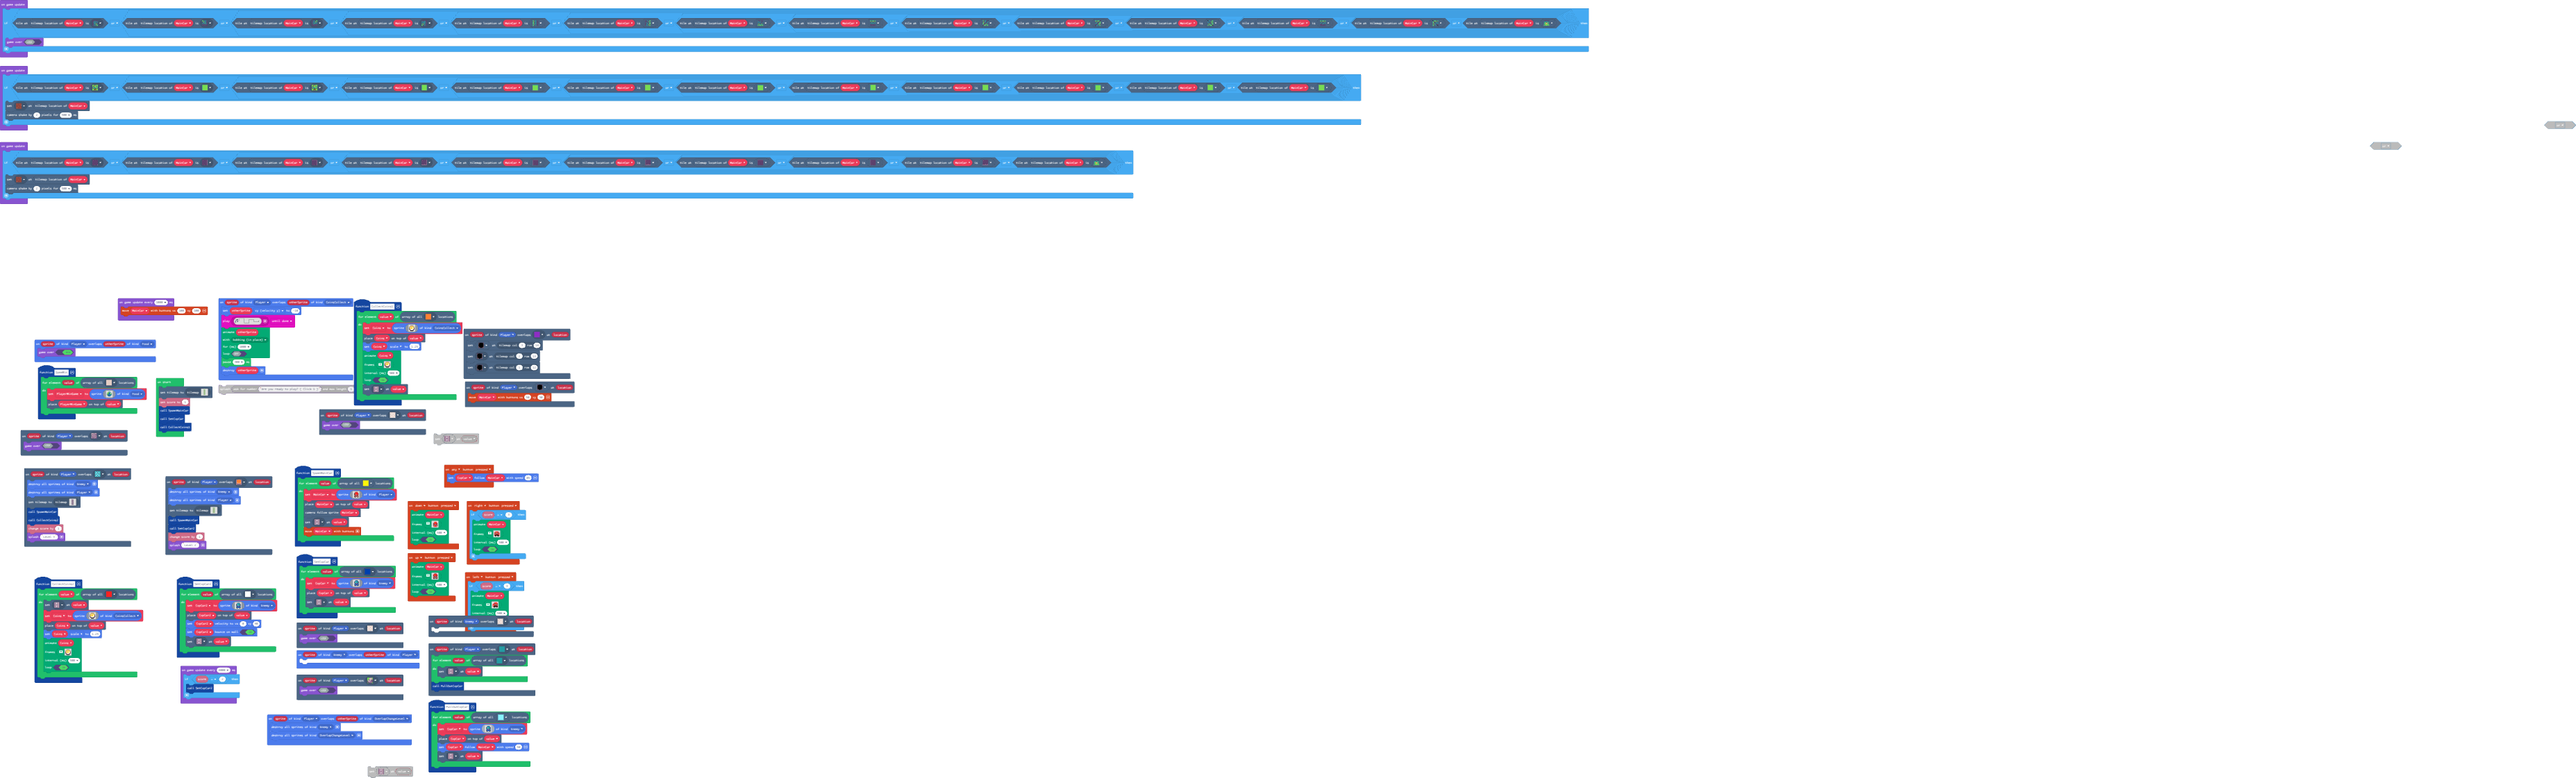
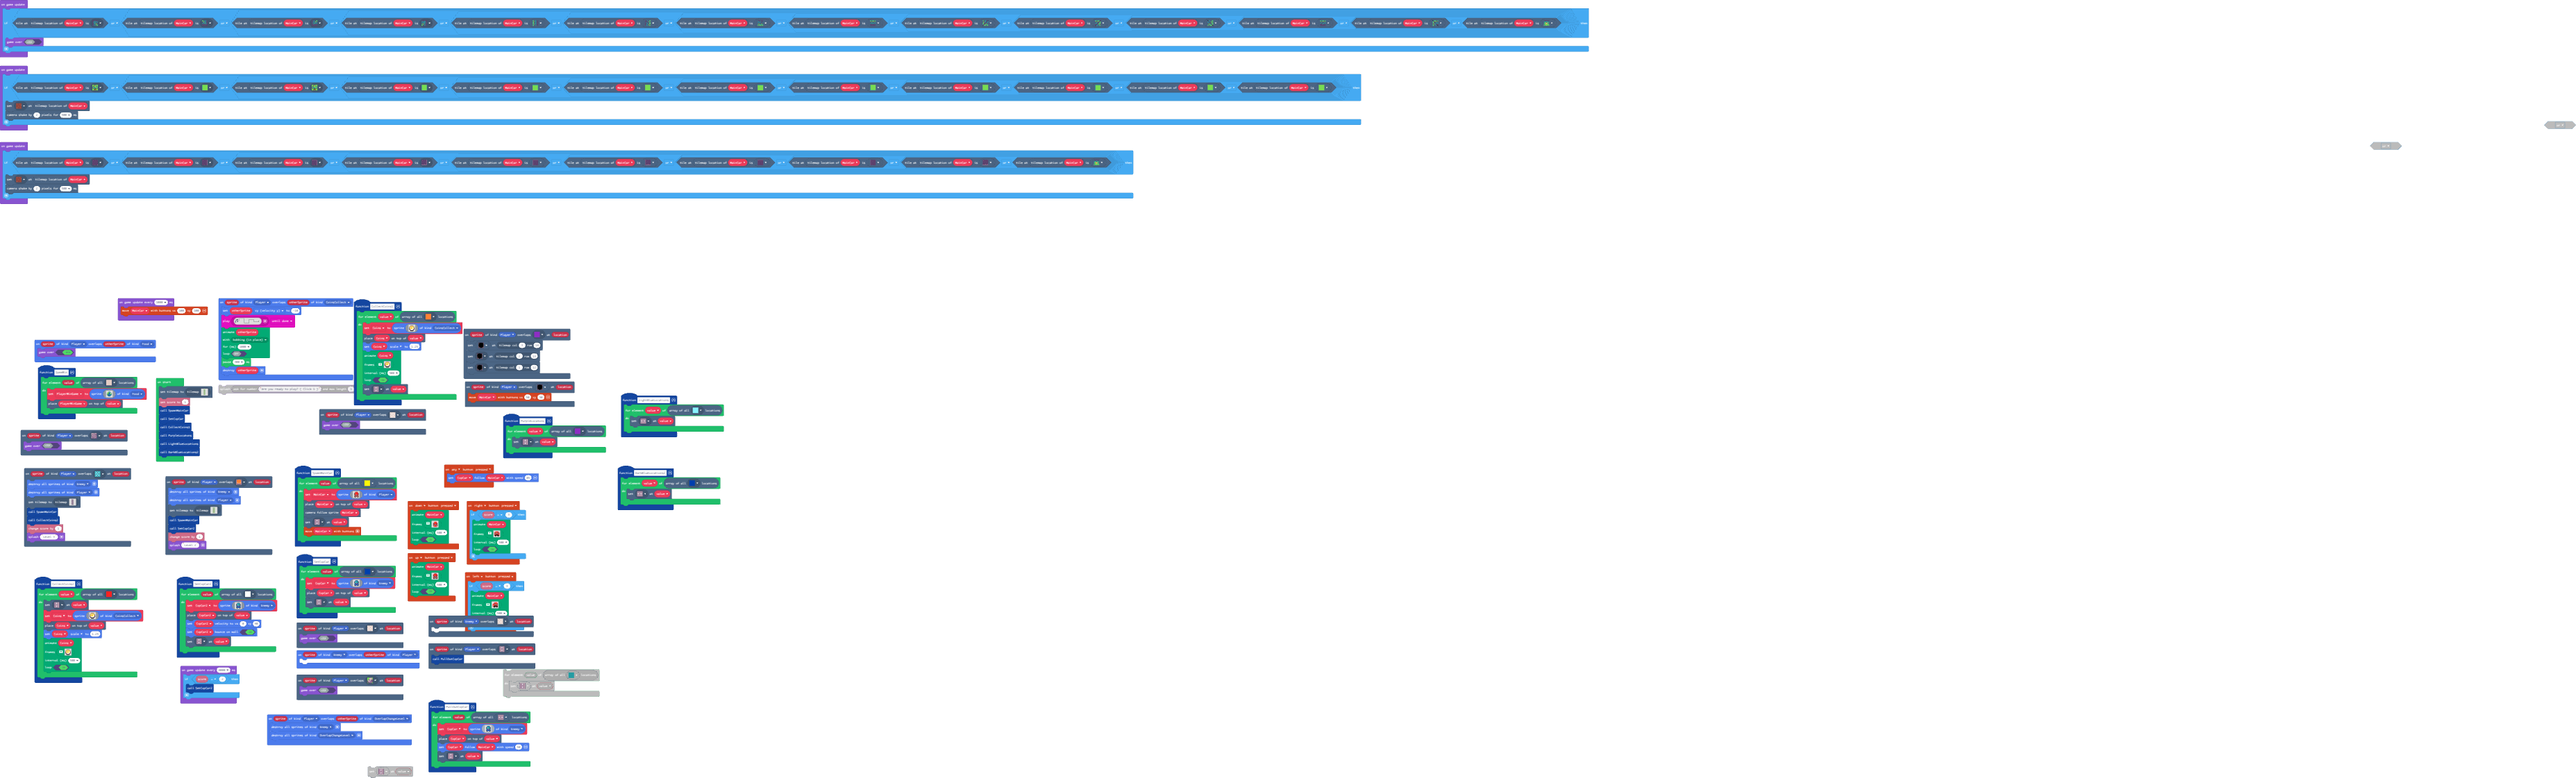
Update pxt.json, main.blocks, main.ts, tilemap.g.jres, tilemap.g.ts

diff --git a/tilemap.g.ts b/tilemap.g.ts
@@ -72,6 +72,10 @@ namespace myTiles {
     export const tile31 = image.ofBuffer(hex``);
     //% fixedInstance jres blockIdentity=images._tile
     export const tile32 = image.ofBuffer(hex``);
+    //% fixedInstance jres blockIdentity=images._tile
+    export const tile36 = image.ofBuffer(hex``);
+    //% fixedInstance jres blockIdentity=images._tile
+    export const tile37 = image.ofBuffer(hex``);
 
     helpers._registerFactory("tilemap", function(name: string) {
         switch(helpers.stringTrim(name)) {
@@ -215,7 +219,7 @@ namespace myTiles {
 ............
 `, [myTiles.transparency16,sprites.vehicle.roadVertical,sprites.vehicle.roadHorizontal,sprites.dungeon.darkGroundNorthWest1,sprites.dungeon.darkGroundEast,sprites.dungeon.darkGroundNorthEast0,sprites.dungeon.darkGroundSouthEast0,sprites.dungeon.darkGroundNorthWest0,sprites.dungeon.darkGroundSouthWest0,sprites.dungeon.darkGroundNorth,sprites.dungeon.darkGroundWest,sprites.dungeon.darkGroundSouth,sprites.dungeon.greenInnerNorthWest,sprites.dungeon.greenInnerSouthEast,sprites.dungeon.greenInnerSouthWest,sprites.dungeon.greenInnerNorthEast,sprites.dungeon.greenOuterWest0,sprites.dungeon.greenOuterEast1,sprites.dungeon.greenOuterSouth0,sprites.dungeon.greenOuterNorth0,sprites.dungeon.greenOuterSouth2,sprites.dungeon.greenOuterSouthEast,sprites.dungeon.greenOuterNorthEast,sprites.dungeon.greenOuterEast0,sprites.dungeon.greenOuterSouthWest,sprites.dungeon.greenOuterNorth1,sprites.dungeon.greenOuterNorthWest,sprites.dungeon.greenOuterWest1,myTiles.tile30,myTiles.tile27,sprites.dungeon.floorDarkDiamond,myTiles.tile32,myTiles.tile33], TileScale.Sixteen);
             case "level2":
[2 lines of base64/hex data omitted]
 ..........
 ..........
 ..........
@@ -254,7 +258,7 @@ namespace myTiles {
 ..........
 ..........
 ..........
-`, [myTiles.transparency16,sprites.vehicle.roadVertical,sprites.vehicle.roadHorizontal,sprites.skillmap.islandTile1,sprites.skillmap.islandTile4,sprites.skillmap.islandTile3,sprites.skillmap.islandTile5,myTiles.tile1,sprites.builtin.brick,myTiles.tile3,myTiles.tile4,myTiles.tile6,myTiles.tile8,myTiles.tile9,myTiles.tile13,myTiles.tile14,myTiles.tile15,myTiles.tile16,myTiles.tile17,myTiles.tile20,myTiles.tile22,myTiles.tile24,myTiles.tile25,myTiles.tile31,myTiles.tile33,myTiles.tile5], TileScale.Sixteen);
+`, [myTiles.transparency16,sprites.vehicle.roadVertical,sprites.vehicle.roadHorizontal,sprites.skillmap.islandTile1,sprites.skillmap.islandTile4,sprites.skillmap.islandTile3,sprites.skillmap.islandTile5,myTiles.tile1,sprites.builtin.brick,myTiles.tile3,myTiles.tile4,myTiles.tile6,myTiles.tile8,myTiles.tile9,myTiles.tile15,myTiles.tile16,myTiles.tile17,myTiles.tile20,myTiles.tile22,myTiles.tile24,myTiles.tile25,myTiles.tile31,myTiles.tile33,myTiles.tile5,myTiles.tile36,myTiles.tile37], TileScale.Sixteen);
         }
         return null;
     })
@@ -332,6 +336,10 @@ namespace myTiles {
             case "tile31":return tile31;
             case "myTile26":
             case "tile32":return tile32;
+            case "myTile30":
+            case "tile36":return tile36;
+            case "myTile31":
+            case "tile37":return tile37;
         }
         return null;
     })

diff --git a/main.ts b/main.ts
@@ -61,12 +61,6 @@ scene.onOverlapTile(SpriteKind.Player, assets.tile`myTile22`, function (sprite, 
     info.changeScoreBy(1)
     game.splash("Level 3")
 })
-scene.onOverlapTile(SpriteKind.Player, assets.tile`EnemyOverlap1`, function (sprite, location) {
-    for (let value of tiles.getTilesByType(assets.tile`EnemyOverlap1`)) {
-        tiles.setTileAt(value, assets.tile`myTile13`)
-    }
-    PullOutCopCar()
-})
 scene.onOverlapTile(SpriteKind.Player, sprites.builtin.brick, function (sprite, location) {
     game.gameOver(false)
 })
@@ -109,6 +103,11 @@ controller.left.onEvent(ControllerButtonEvent.Pressed, function () {
         )
     }
 })
+function PurpleLocatons () {
+    for (let value of tiles.getTilesByType(assets.tile`myTile16`)) {
+        tiles.setTileAt(value, sprites.vehicle.roadVertical)
+    }
+}
 scene.onOverlapTile(SpriteKind.Player, assets.tile`myTile21`, function (sprite, location) {
     game.gameOver(false)
 })
@@ -117,6 +116,11 @@ scene.onOverlapTile(SpriteKind.Player, assets.tile`myTile16`, function (sprite, 
     tiles.setTileAt(tiles.getTileLocation(2, 13), assets.tile`myTile15`)
     tiles.setTileAt(tiles.getTileLocation(1, 12), assets.tile`myTile15`)
 })
+function LightBlueLocations () {
+    for (let value of tiles.getTilesByType(assets.tile`CopCarPullOut`)) {
+        tiles.setTileAt(value, sprites.vehicle.roadHorizontal)
+    }
+}
 controller.right.onEvent(ControllerButtonEvent.Pressed, function () {
     if (info.score() == 3) {
         animation.runImageAnimation(
@@ -150,8 +154,13 @@ scene.onOverlapTile(SpriteKind.Enemy, sprites.builtin.brick, function (sprite, l
 sprites.onOverlap(SpriteKind.Enemy, SpriteKind.Player, function (sprite, otherSprite) {
 	
 })
+function DarkBlueLocations2 () {
+    for (let value of tiles.getTilesByType(assets.tile`myTile3`)) {
+        tiles.setTileAt(value, sprites.vehicle.roadHorizontal)
+    }
+}
 function PullOutCopCar () {
-    for (let value of tiles.getTilesByType(assets.tile`CopCarPullOut`)) {
+    for (let value of tiles.getTilesByType(assets.tile`myTile31`)) {
         CopCar = sprites.create(img`
             . . . . . . 8 8 c c 8 8 . . . . 
             . . . . . 8 6 6 6 6 6 6 8 . . . 
@@ -456,6 +465,9 @@ function SpawnMainCar () {
         controller.moveSprite(MainCar)
     }
 }
+scene.onOverlapTile(SpriteKind.Player, assets.tile`myTile30`, function (sprite, location) {
+    PullOutCopCar()
+})
 let PlayerWinGame: Sprite = null
 let CopCar2: Sprite = null
 let Coins: Sprite = null
@@ -466,6 +478,9 @@ info.setScore(1)
 SpawnMainCar()
 SetCopCar()
 CollectCoins1()
+PurpleLocatons()
+LightBlueLocations()
+DarkBlueLocations2()
 game.onUpdate(function () {
     if (tiles.tileAtLocationEquals(MainCar.tilemapLocation(), sprites.dungeon.greenInnerNorthWest) || (tiles.tileAtLocationEquals(MainCar.tilemapLocation(), sprites.dungeon.greenInnerSouthEast) || (tiles.tileAtLocationEquals(MainCar.tilemapLocation(), sprites.dungeon.greenInnerSouthWest) || (tiles.tileAtLocationEquals(MainCar.tilemapLocation(), sprites.dungeon.greenInnerNorthEast) || (tiles.tileAtLocationEquals(MainCar.tilemapLocation(), sprites.dungeon.greenOuterWest0) || (tiles.tileAtLocationEquals(MainCar.tilemapLocation(), sprites.dungeon.greenOuterEast1) || (tiles.tileAtLocationEquals(MainCar.tilemapLocation(), sprites.dungeon.greenOuterSouth0) || (tiles.tileAtLocationEquals(MainCar.tilemapLocation(), sprites.dungeon.greenOuterNorth0) || (tiles.tileAtLocationEquals(MainCar.tilemapLocation(), sprites.dungeon.greenOuterSouthEast) || (tiles.tileAtLocationEquals(MainCar.tilemapLocation(), sprites.dungeon.greenOuterNorthEast) || (tiles.tileAtLocationEquals(MainCar.tilemapLocation(), sprites.dungeon.greenOuterSouthWest) || (tiles.tileAtLocationEquals(MainCar.tilemapLocation(), sprites.dungeon.greenOuterNorth1) || (tiles.tileAtLocationEquals(MainCar.tilemapLocation(), sprites.dungeon.greenOuterNorthWest) || tiles.tileAtLocationEquals(MainCar.tilemapLocation(), sprites.dungeon.greenOuterSouth2)))))))))))))) {
         game.gameOver(false)
